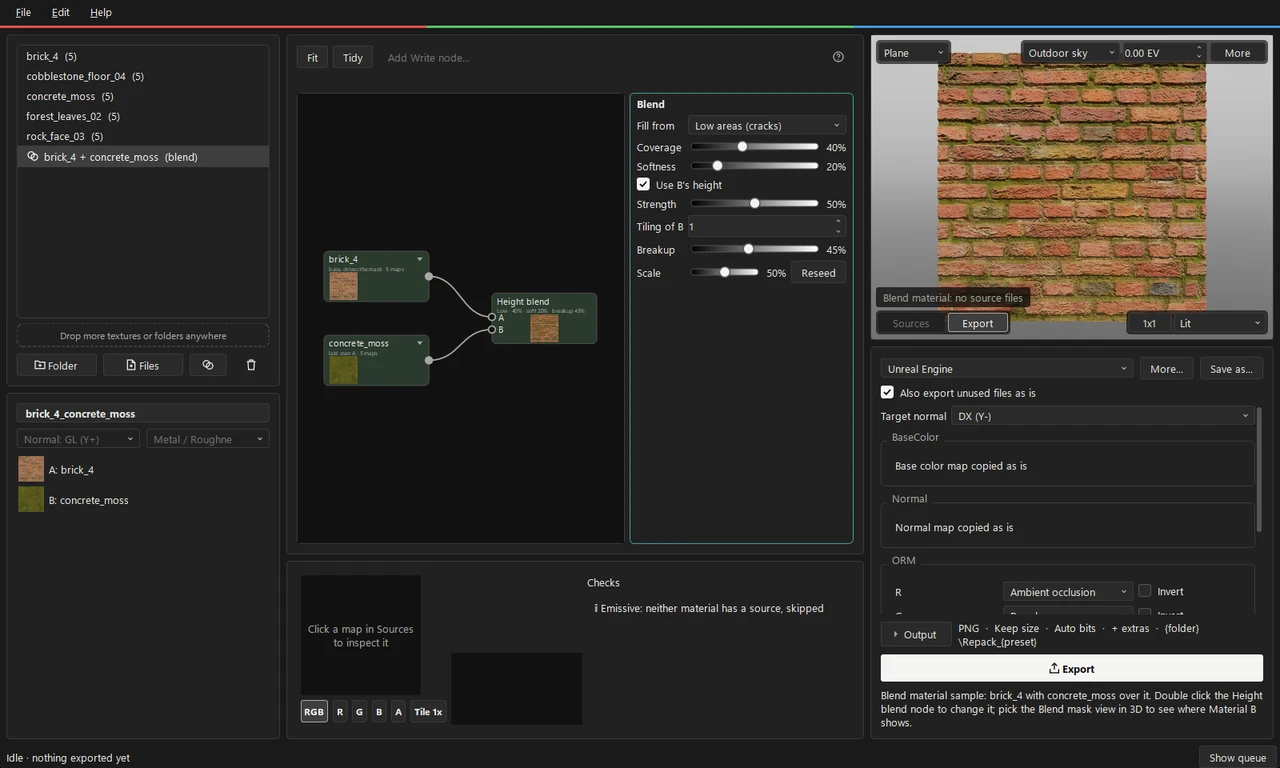
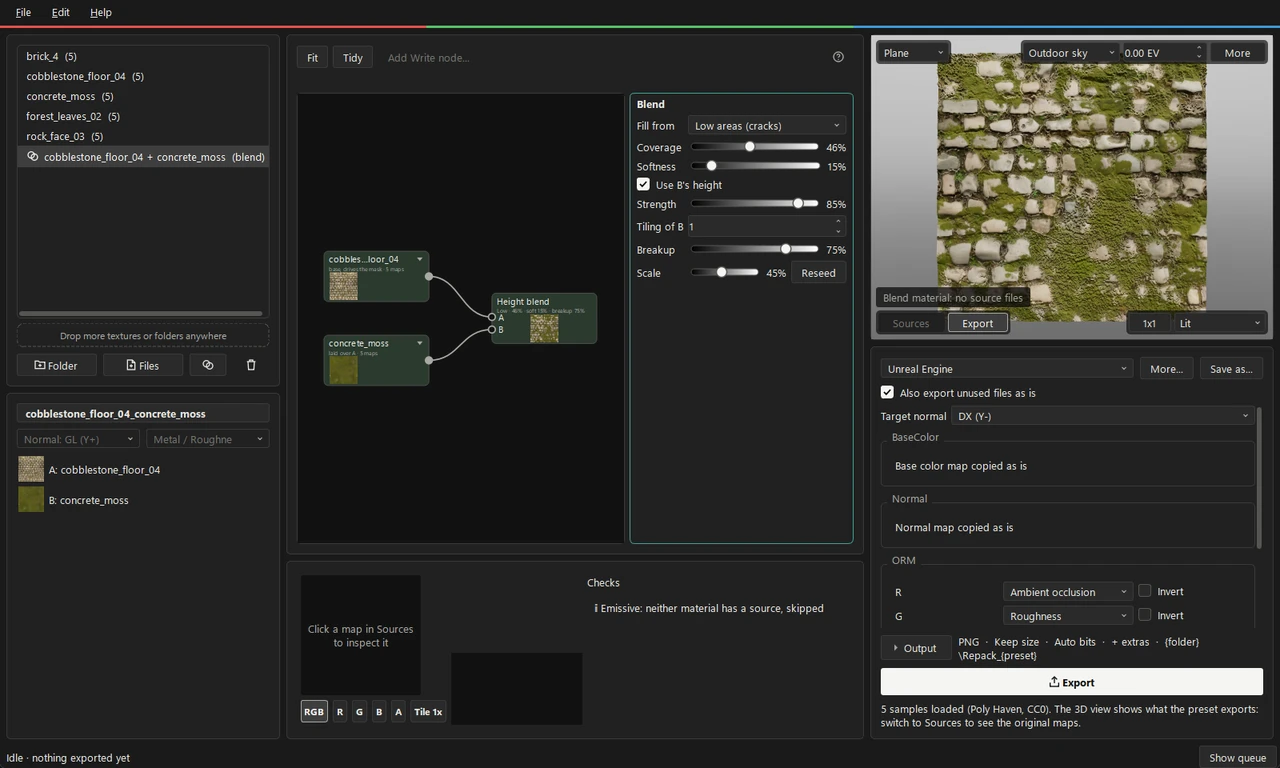
Repack: cobblestone and moss blend screenshots, full-screen UI cover

diff --git a/_docs/repack.md b/_docs/repack.md
@@ -99,7 +99,7 @@ Each source file is a Read node with pins for its channels. Wires run to the pin
 
 A blend material lays one material over another by the first one's height map, for example moss that collects in the cracks of a brick wall. It is a row of its own in the materials list, after the sets. Load both materials, right click the brick and choose **Create blend using selected** (with two sets selected, the one you clicked is Material A and the other Material B), or use the blend button under the list for an empty one. Drag a set from the list onto **Material A** or **Material B** in the graph, or click the small arrow on a slot to pick one. **File > Load the blend material sample** makes one from the bundled brick and mossy ground.
 
-{% include figure.html slug="repack" name="blend" alt="A blend material: brick with moss, the three blend nodes, the sliders at the right and the result on the sphere" caption="A blend material: Material A, Material B and the Height blend node, with the sliders in a column at the right and the result in 3D." %}
+{% include figure.html slug="repack" name="blend" alt="A blend material: cobblestone with moss, the three blend nodes, the sliders at the right and the result on a plane" caption="A blend material: Material A, Material B and the Height blend node, with the sliders in a column at the right and the result in 3D." %}
 
 The graph shows three nodes: Material A (the base, its height drives the mask), Material B, and **Height blend**. The controls sit in a column to the right of the graph, and double clicking Height blend opens the same controls plus Material A and B:
 

diff --git a/_tools/repack.md b/_tools/repack.md
@@ -13,7 +13,7 @@ features:
 - Presets for Unreal, Unity (URP, Built-in, Specular), Godot and glTF, plus separate maps and Convert only
 - DirectX and OpenGL normal flips, roughness and gloss, metal and specular conversions
 - A node graph with a pin per channel, and a live 3D preview with real displacement
-- Blend materials: lay moss over brick by height, with sliders, and save blend kits
+- Blend materials: lay moss over stone or brick by height, with sliders, and save blend kits
 - Batch whole folders on every core, UDIM tiles and a watch folder
 ---
 
@@ -36,7 +36,7 @@ Drop in a folder of maps, pick a target, and Repack writes a correctly packed, n
 - **Batch work:** a whole folder of sets at once on every core, several presets in one go, UDIM tiles, and a watch folder that converts new sets as they appear.
 - **Safe:** your source textures are never touched, and nothing is written until you press Export.
 
-{% include figure.html slug="repack" name="blend" alt="A blend material in Repack: brick with moss, the blend nodes, sliders and the result on a sphere" caption="A blend material: moss laid over brick by the brick's height, with the sliders at the right." %}
+{% include figure.html slug="repack" name="blend" alt="A blend material in Repack: cobblestone with moss, the blend nodes, sliders and the result on a plane" caption="A blend material: moss laid over cobblestone by the stone's height, with the sliders at the right." %}
 
 ## Good to know
 
